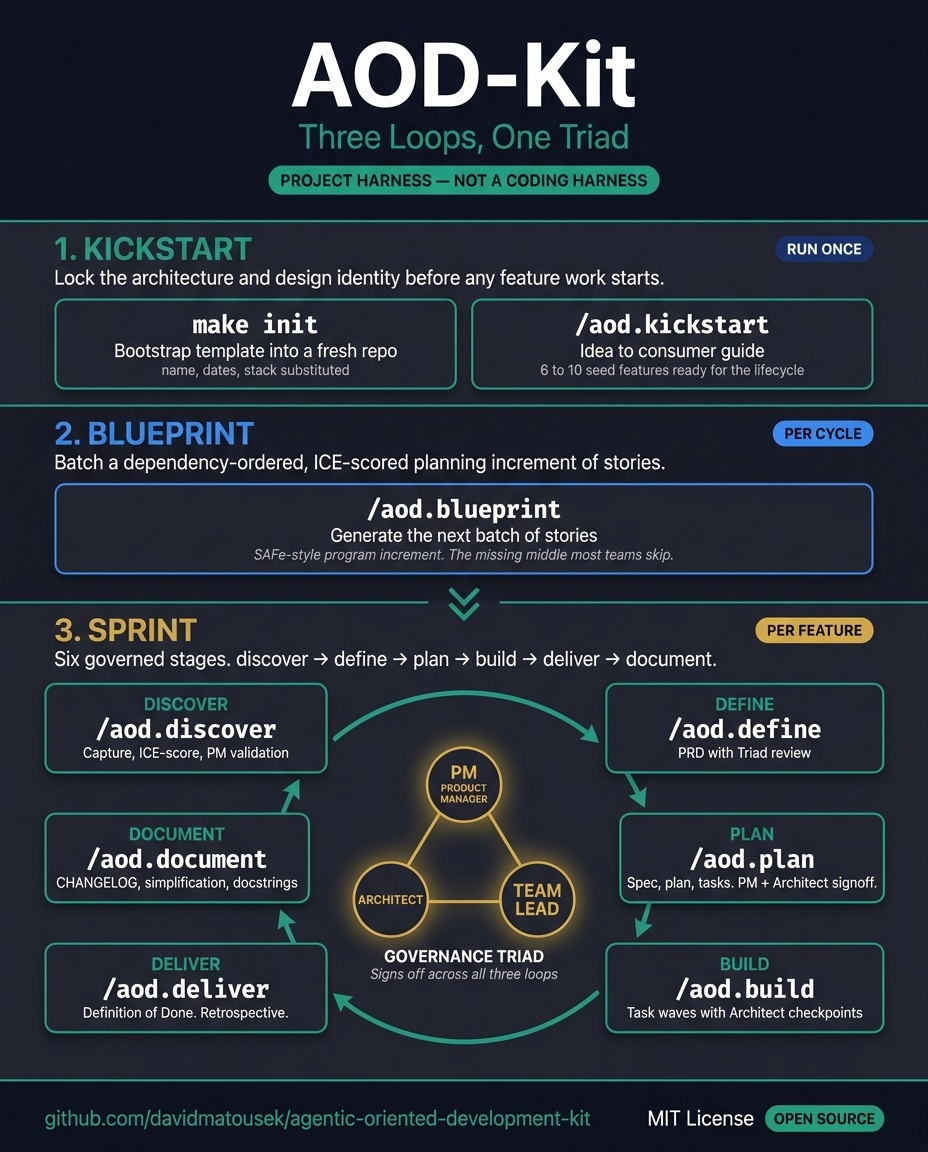
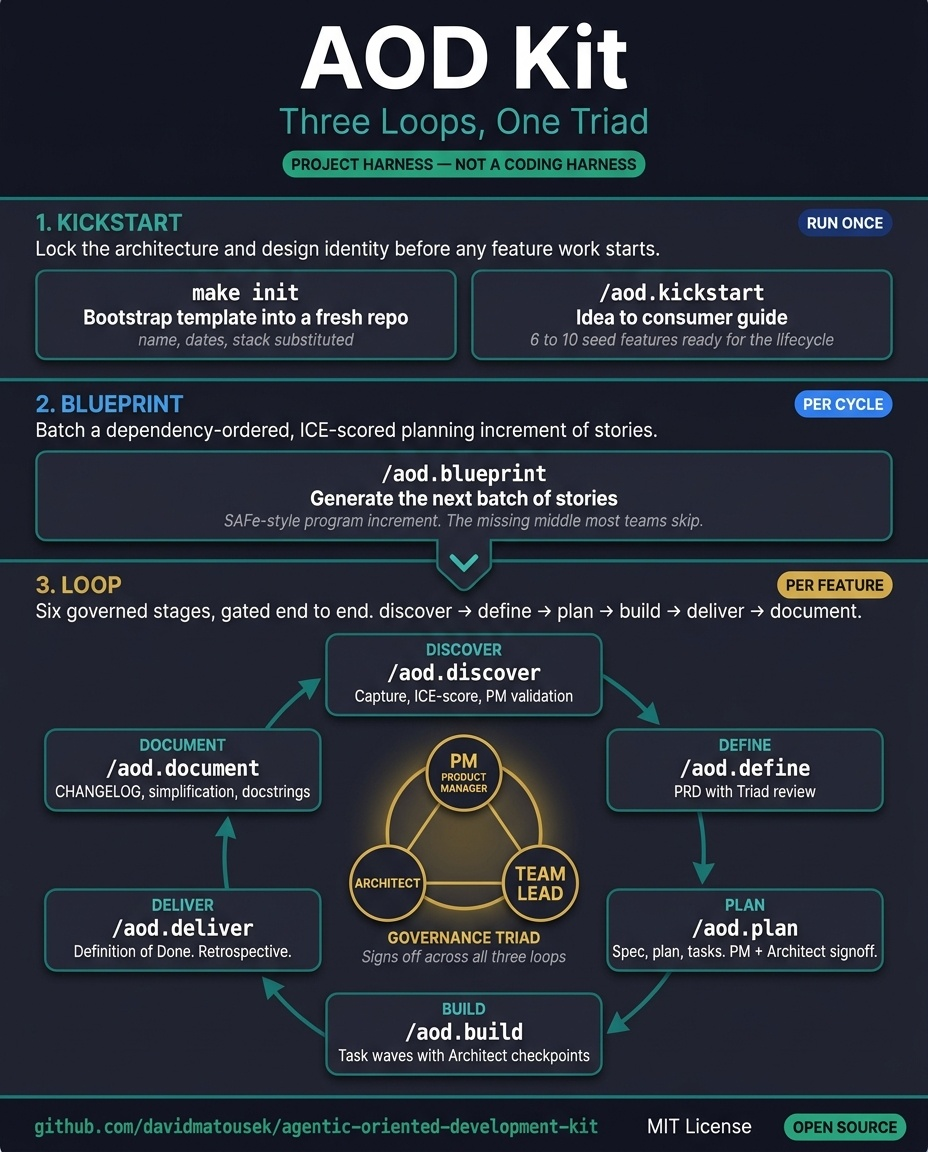
sync: Loop-alignment docs, post-delivery polish, branding-spec exclusion (from PLSK ec1e431, #195, #197)

Changed region(s): [[0.0, 0.0, 1.0, 1.0]]

diff --git a/README.md b/README.md
@@ -28,7 +28,7 @@
 
 ## Three Loops, One Triad
 
-![AOD Kit Three Loops poster showing Kickstart, Blueprint, and Sprint loops with the Governance Triad of PM, Architect, and Team Lead at the center](docs/branding/aod-kit-loop-poster.jpg)
+![AOD Kit Three Loops poster showing Kickstart, Blueprint, and Loop with the Governance Triad of PM, Architect, and Team Lead at the center](docs/branding/aod-kit-loop-poster.jpg)
 
 AOD Kit runs at three frequencies. Coding harnesses only address the smallest. Project harnesses address all three, with the same Triad (PM, Architect, Team-Lead) signing off at every gate.
 
@@ -45,9 +45,9 @@ Batch a dependency-ordered, ICE-scored planning increment of stories. SAFe calls
 
 - `/aod.blueprint` generates the next batch of stories from the consumer guide and pushes them to GitHub Issues.
 
-### 3. Sprint (per feature)
+### 3. Loop (per feature)
 
-Six governed stages. PM, Architect, and Team-Lead sign off at every gate.
+Six governed stages. PM, Architect, and Team-Lead sign off at every gate. This is the Loop, the per-feature unit of execution: one full revolution of the lifecycle, gated end to end.
 
 - `/aod.discover` captures the idea and ICE-scores it.
 - `/aod.define` drafts a PRD with Triad review.
@@ -57,6 +57,16 @@ Six governed stages. PM, Architect, and Team-Lead sign off at every gate.
 - `/aod.document` simplifies code, updates CHANGELOG, and writes API docs.
 
 *Coding harnesses run one loop. AOD Kit runs three.*
+
+---
+
+## Why the harness, not just a loop
+
+Loops are easy. Gates are hard.
+
+Loop engineering, designing the cycle that prompts your agents instead of prompting them by hand, is having its moment. But a loop left to run unattended is a loop making mistakes unattended, only faster. The hard half is the gates, the checks that decide what each stage is allowed to ship before the next one starts.
+
+AOD Kit is that gate discipline. Every Loop runs through tier-configurable Triad sign-offs (Light, Standard, Full), so the same six stages scale from a solo prototype to a regulated launch. Anyone can write a loop. AOD Kit governs one.
 
 ---
 
@@ -84,9 +94,9 @@ Requires [Claude Code](https://claude.ai/claude-code) v2.1.16+ and `git`. Other 
 
 | Capability | What it does |
 |---|---|
-| **Three Loops, One Triad** | Kickstart (run once), Blueprint (per cycle), and Sprint (per feature). Each loop has its own commands and gates. The Triad signs off across all three. |
+| **Three Loops, One Triad** | Kickstart (run once), Blueprint (per cycle), and Loop (per feature). Each loop has its own commands and gates. The Triad signs off across all three. |
 | **SDLC Triad governance** | PM, Architect, and Team-Lead sign-offs at every phase gate (spec, plan, tasks). Triple sign-off is the minimum governance floor. |
-| **Six-stage Sprint loop** | Discover → Define → Plan → Build → Deliver → Document. The per-feature loop. Each stage has its own commands, skills, and quality gates. |
+| **Six-stage Loop** | Discover → Define → Plan → Build → Deliver → Document. The per-feature Loop, one revolution of the lifecycle. Each stage has its own commands, skills, and quality gates. |
 | **Product Discovery Lifecycle (PDL)** | Structured idea capture, ICE scoring, PM validation, and user story generation. Raw idea to backlog-ready in one flow. |
 | **Stack Packs** | Drop-in technology conventions for Next.js + Supabase, FastAPI + React, and more. Activate one with `/aod.stack use <pack>`. |
 | **Modular rules system** | `.claude/rules/` contains commit-friendly governance, design-quality, deployment, and context-loading rules. Easy to customize per project. |

diff --git a/docs/guides/AOD_GUIDE_INDEX.md b/docs/guides/AOD_GUIDE_INDEX.md
@@ -10,8 +10,8 @@ Terms used on this page and across the AOD docs. Skim this once — the modes ta
 
 | Term | Meaning in AOD |
 |---|---|
-| **Sprint** | One feature taken through the six-stage lifecycle (Discover → Define → Plan → Build → Deliver → Document). A single unit of delivery. |
-| **Epic** | A multi-sprint effort. Typically 6-10 related features sequenced by `/aod.kickstart` (into a consumer guide) and then executed as a batch via `/aod.blueprint` + `/aod.orchestrate`. |
+| **Loop** | One feature taken through the six-stage lifecycle (Discover → Define → Plan → Build → Deliver → Document). A single unit of delivery, one full revolution of the lifecycle gated end to end. |
+| **Epic** | A multi-loop effort. Typically 6-10 related features sequenced by `/aod.kickstart` (into a consumer guide) and then executed as a batch via `/aod.blueprint` + `/aod.orchestrate`. |
 | **Consumer guide** | The markdown output of `/aod.kickstart` — a dependency-ordered backlog of seed features with user stories, acceptance criteria, and interface contracts. Input to `/aod.blueprint`. |
 | **Blueprint** | ICE-scored GitHub Issues generated from a consumer guide. The structured backlog that `/aod.orchestrate` consumes. |
 | **Wave** | A group of GitHub Issues `/aod.orchestrate` runs in parallel. Grouped by priority tier (P0, P1, P2); waves execute sequentially but issues within a wave run concurrently. |
@@ -32,7 +32,7 @@ Eight modes organized by intent.
 
 | Mode | Entry | Read |
 |---|---|---|
-| Classic sprint — human-led, full Triad governance | `/aod.discover` → `/aod.define` → `/aod.plan` → `/aod.build` → `/aod.deliver` → `/aod.document` | [AOD_LIFECYCLE.md](AOD_LIFECYCLE.md) |
+| Classic loop — human-led, full Triad governance | `/aod.discover` → `/aod.define` → `/aod.plan` → `/aod.build` → `/aod.deliver` → `/aod.document` | [AOD_LIFECYCLE.md](AOD_LIFECYCLE.md) |
 | Full automated lifecycle — chains stages 1-5 with session-resilient state | `/aod.run` | [AOD_LIFECYCLE.md](AOD_LIFECYCLE.md) + [`aod.run.md`](../../.claude/commands/aod.run.md) |
 | Bug fix — diagnose, fix, test, deliver, document _(planned, not yet shipped)_ | `/aod.bugfix` | TBD |
 
@@ -41,8 +41,8 @@ Eight modes organized by intent.
 | Mode | Entry | Read |
 |---|---|---|
 | POC kickstart — turn a raw idea into a sequenced consumer guide with seed features | `/aod.kickstart` | [AOD_KICKSTART.md](AOD_KICKSTART.md) |
-| Multi-sprint epic (generate backlog) — convert a consumer guide into ICE-scored GitHub Issues | `/aod.blueprint` | [`aod.blueprint.md`](../../.claude/commands/aod.blueprint.md) |
-| Multi-sprint epic (execute autonomously) — run the backlog in P0/P1/P2 parallel waves | `/aod.orchestrate` | [`aod.orchestrate.md`](../../.claude/commands/aod.orchestrate.md) |
+| Multi-loop epic (generate backlog) — convert a consumer guide into ICE-scored GitHub Issues | `/aod.blueprint` | [`aod.blueprint.md`](../../.claude/commands/aod.blueprint.md) |
+| Multi-loop epic (execute autonomously) — run the backlog in P0/P1/P2 parallel waves | `/aod.orchestrate` | [`aod.orchestrate.md`](../../.claude/commands/aod.orchestrate.md) |
 
 ### Setup (one-time, post-init)
 

diff --git a/.claude/agents/security-analyst.md b/.claude/agents/security-analyst.md
@@ -160,7 +160,7 @@ All security reviews must:
 - **Impact**: [Description]
 - **Fix**: [Specific remediation steps]
 
-### High Priority (Fix This Sprint)
+### High Priority (Fix This Loop)
 - [Findings with remediation]
 
 ### Dependencies & CVEs

diff --git a/.claude/skills/~aod-discover/SKILL.md b/.claude/skills/~aod-discover/SKILL.md
@@ -467,7 +467,7 @@ Next: Run `/aod.define {topic}` to create a PRD from this user story.
 | Score Range | Priority | Action |
 |-------------|----------|--------|
 | 25-30 | P0 (Critical) | Fast-track to development |
-| 18-24 | P1 (High) | Queue for next sprint |
+| 18-24 | P1 (High) | Queue for next loop |
 | 12-17 | P2 (Medium) | Consider when capacity allows |
 | < 12 | Deferred | Auto-defer; requires PM override via `/aod.validate` |
 

diff --git a/.claude/skills/~aod-score/SKILL.md b/.claude/skills/~aod-score/SKILL.md
@@ -176,7 +176,7 @@ Date updated: {YYYY-MM-DD}
 | Score Range | Priority | Action |
 |-------------|----------|--------|
 | 25-30 | P0 (Critical) | Fast-track to development |
-| 18-24 | P1 (High) | Queue for next sprint |
+| 18-24 | P1 (High) | Queue for next loop |
 | 12-17 | P2 (Medium) | Consider when capacity allows |
 | < 12 | Deferred | Auto-defer; requires PM override via `/aod.validate` |
 

diff --git a/docs/guides/AOD_QUICKSTART.md b/docs/guides/AOD_QUICKSTART.md
@@ -123,7 +123,7 @@ ICE stands for **Impact**, **Confidence**, and **Effort** (ease of implementatio
 | Score Range | Priority | Action |
 |-------------|----------|--------|
 | 25-30 | P0 (Critical) | Fast-track to development |
-| 18-24 | P1 (High) | Queue for next sprint |
+| 18-24 | P1 (High) | Queue for next loop |
 | 12-17 | P2 (Medium) | Consider when capacity allows |
 | < 12 | Deferred | Auto-defer; requires PM override via `/aod.validate` |
 